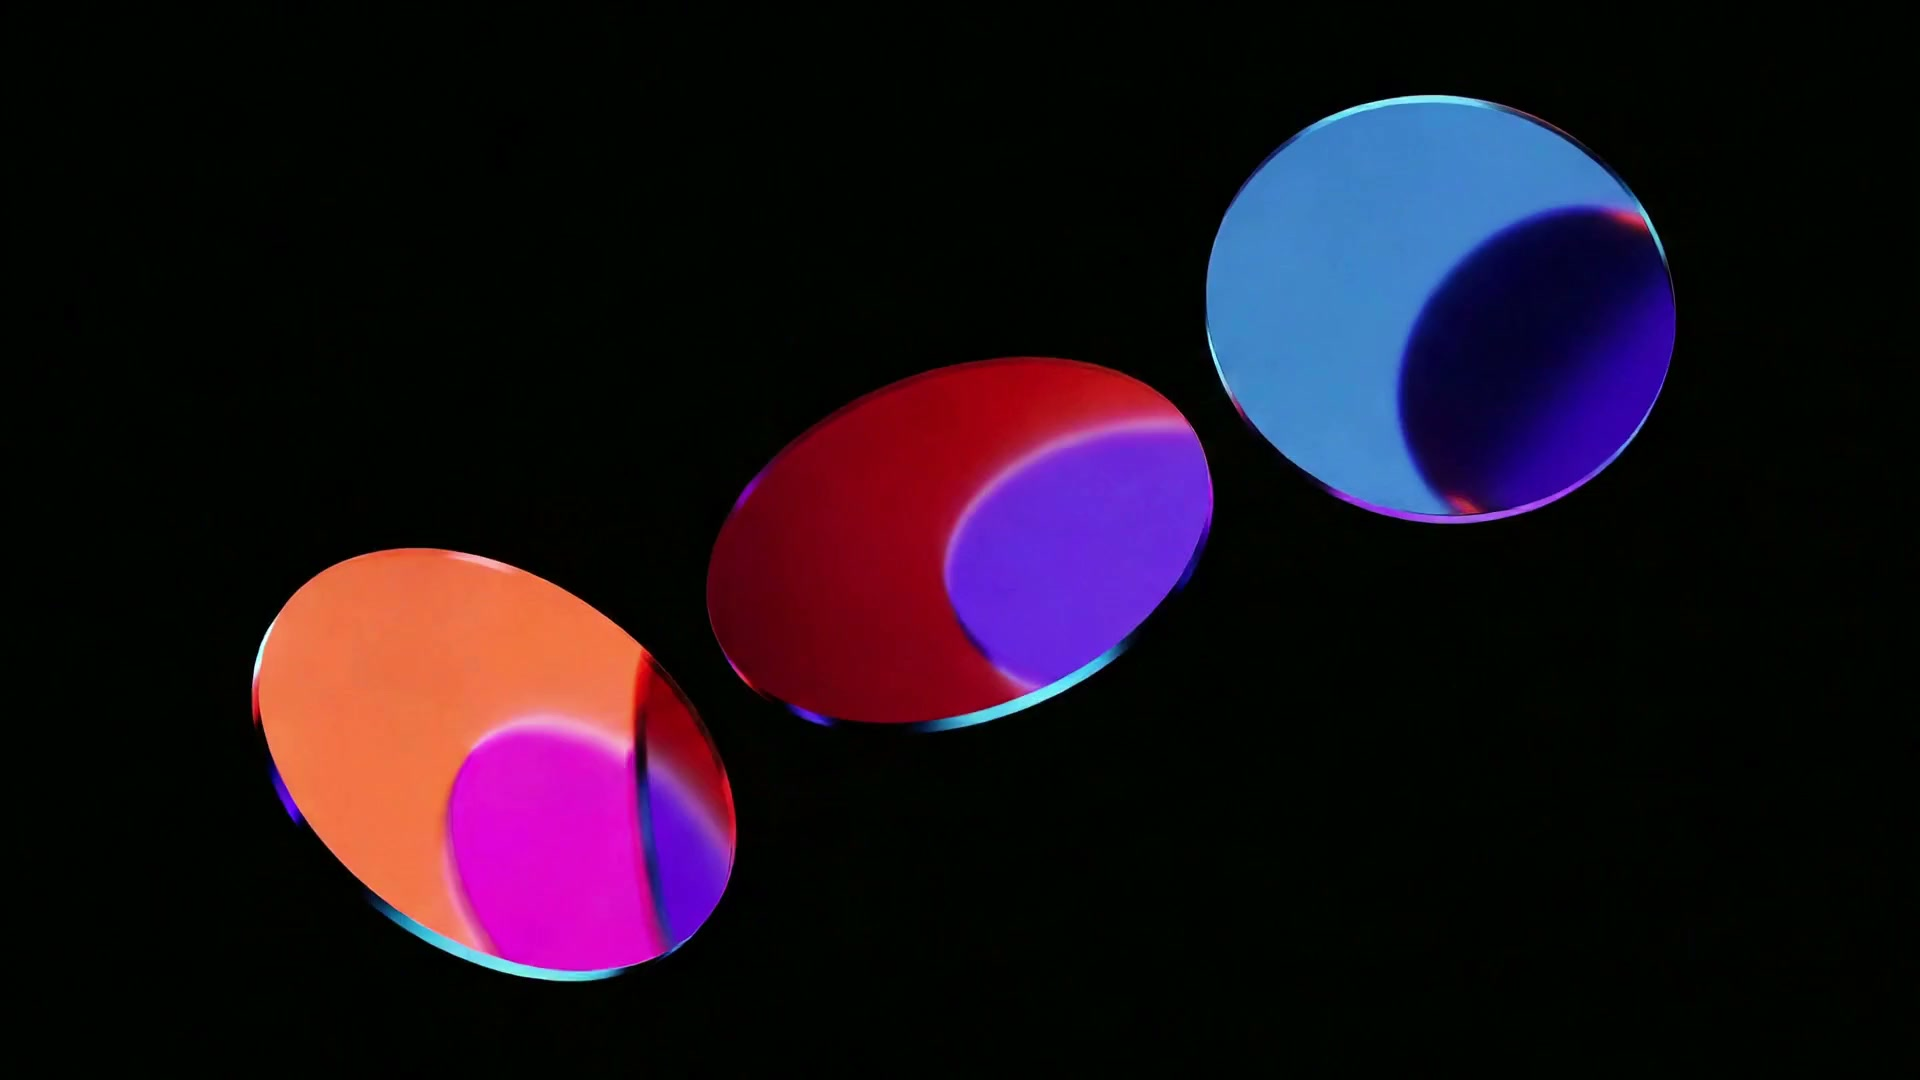
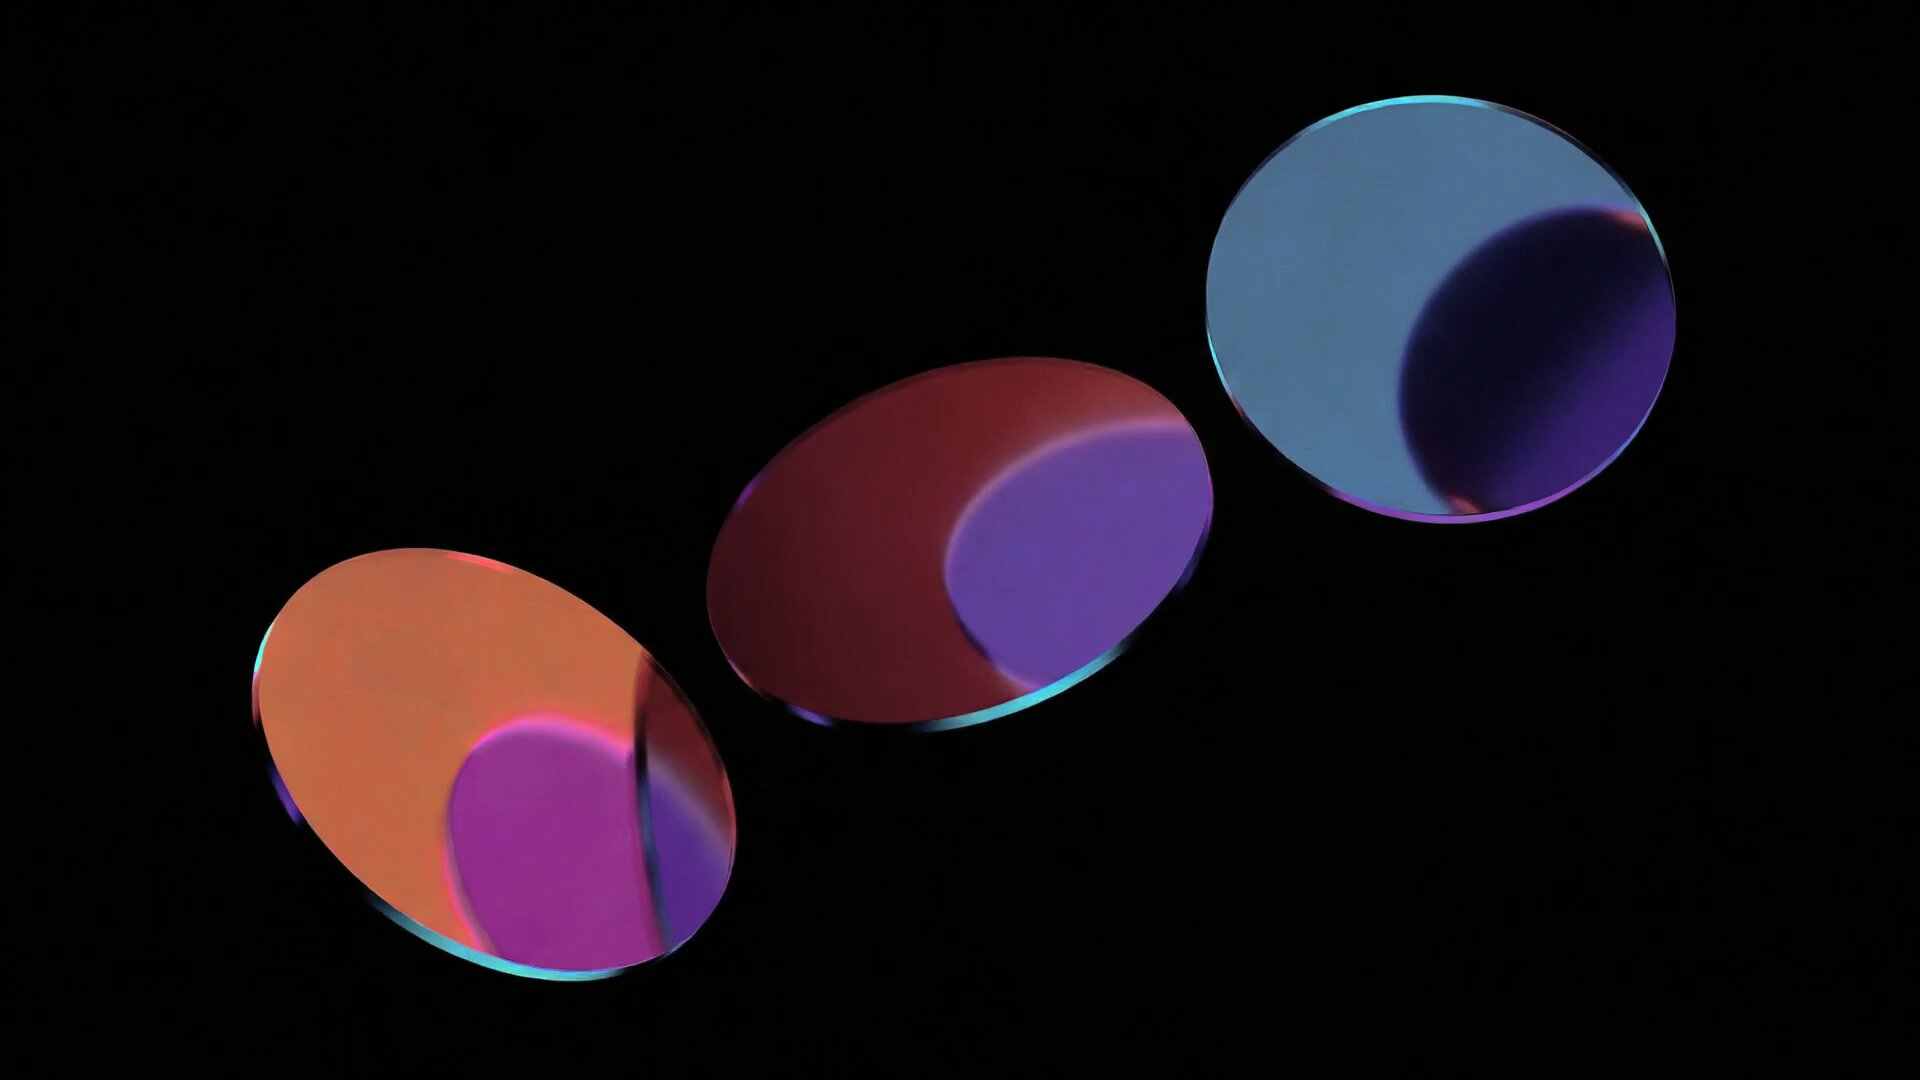
EDM v6: discs bleed past margins, darker exposure for text readability

Changed region(s): [[0.3438, 0.0917, 0.875, 0.6722], [0.125, 0.4889, 0.4062, 0.9167]]

diff --git a/edm-40-years.html b/edm-40-years.html
@@ -34,12 +34,12 @@
 </div>
 
 <table role="presentation" cellspacing="0" cellpadding="0" border="0" width="100%" style="background-color:#07060F;">
-<tr><td align="center">
-<table role="presentation" cellspacing="0" cellpadding="0" border="0" width="600" class="email-container" style="margin:0 auto; background-color:#07060F;">
+<tr><td align="center" style="background-image: url('https://www.hotshoes.asia/assets/edm/discs-hero.jpg'); background-size: 900px auto; background-position: center top; background-repeat: no-repeat; background-color: #07060F;">
+<table role="presentation" cellspacing="0" cellpadding="0" border="0" width="600" class="email-container" style="margin:0 auto;">
 
   <!-- ============ HERO WITH DISCS ============ -->
   <tr>
-    <td style="background-image: url('https://www.hotshoes.asia/assets/edm/discs-hero.jpg'); background-size: cover; background-position: center top; background-repeat: no-repeat; background-color: #07060F;">
+    <td>
       <!--[if gte mso 9]><v:rect xmlns:v="urn:schemas-microsoft-com:vml" fill="true" stroke="false" style="width:600px;"><v:fill type="frame" src="https://www.hotshoes.asia/assets/edm/discs-hero.jpg" color="#07060F"/><v:textbox style="mso-fit-shape-to-text:true" inset="0,0,0,0"><![endif]-->
       <table role="presentation" cellspacing="0" cellpadding="0" border="0" width="100%">
         <tr><td style="padding: 48px 32px 52px;" class="mobile-pad">
